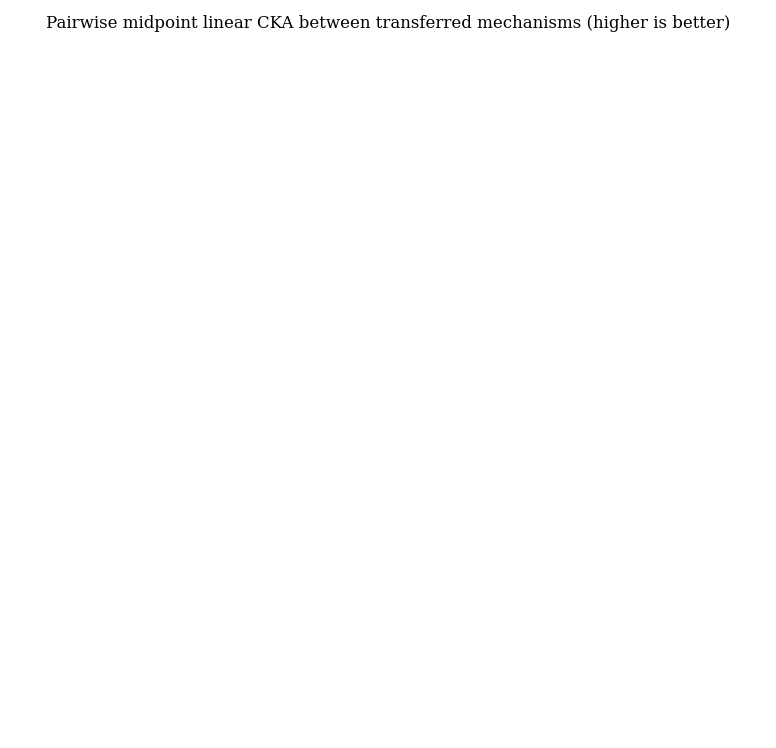
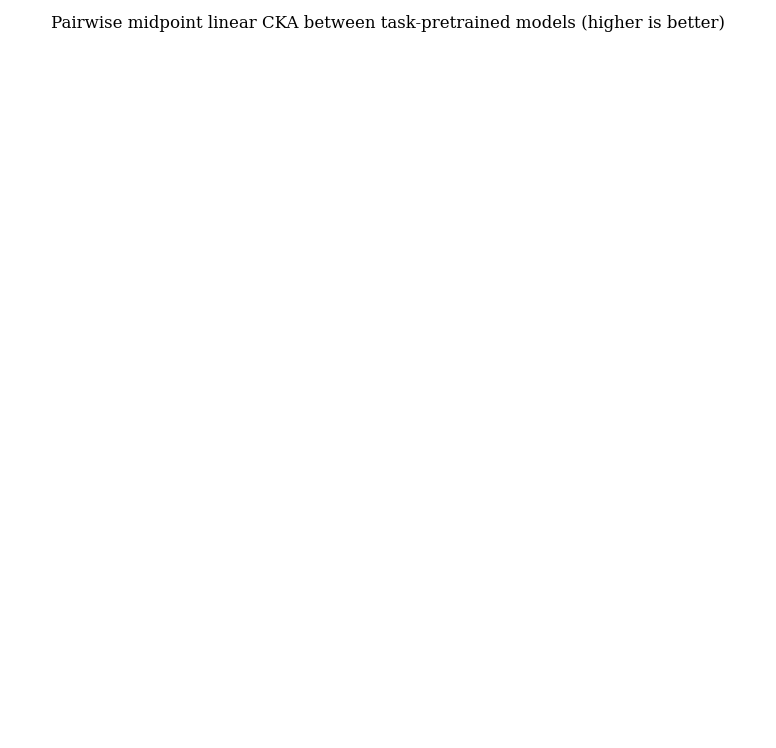
Clarify task-study metric claims and CKA wording

Changed region(s): [[0.1856, 0.0, 0.9278, 0.0615], [0.0619, 0.0, 0.1546, 0.0615]]

diff --git a/src/pptrain/replication/reporting.py b/src/pptrain/replication/reporting.py
@@ -167,14 +167,14 @@ def save_replication_reports(payload: dict[str, Any], output_dir: str | Path) ->
         output_path=output / "pairwise_logit_divergence.png",
         value_format="{value:.2f}",
         scale=1.0e4,
-        top_label="Pairwise Jensen-Shannon divergence between transferred mechanisms (x1e4 nats, lower is better)",
+        top_label="Pairwise Jensen-Shannon divergence between task-pretrained models (x1e4 nats, lower is better)",
     )
     pairwise_activation_plot_path = _save_cross_mechanism_matrix_grid(
         payload,
         cross_key="pairwise_activation_cka_by_variant",
         output_path=output / "pairwise_activation_cka.png",
         value_format="{value:.2f}",
-        top_label="Pairwise midpoint linear CKA between transferred mechanisms (higher is better)",
+        top_label="Pairwise midpoint linear CKA between task-pretrained models (higher is better)",
         shared_scale=False,
     )
     summary_plot_path = _save_effect_summary_plot(payload, output / "effect_summary.png")
@@ -337,7 +337,7 @@ def _build_report_markdown(
             "",
             f"![Activation CKA to baseline]({activation_cka_plot_path.name})",
             "",
-            "This plot compares each task's task-pretrained model against its own compute-matched natural baseline using midpoint linear CKA on held-out downstream tokens. Higher values mean the internal representation geometry is more similar despite different parameter initializations.",
+            "This plot compares each task's task-pretrained model against its own compute-matched natural baseline using midpoint linear CKA on held-out downstream tokens. Higher values mean the internal representation geometry is more similar despite different parameter initializations. This is a descriptive representation-level diagnostic rather than a direct measure of successful transfer.",
             "",
             "### Activation Effective Rank",
             "",

diff --git a/docs/archive/proxy-study-2026-04-10/summary.md b/docs/archive/proxy-study-2026-04-10/summary.md
@@ -30,7 +30,7 @@ The loss overlays show that this conclusion is not driven by a single unstable s
 
 ![Activation CKA to baseline](activation_cka_to_baseline.png)
 
-The representational diagnostics do not reverse the main conclusion. Midlayer CKA relative to the compute-matched natural baseline varies across tasks, but even where the task-pretrained condition produces representations that are not grossly dissimilar, this does not translate into a downstream advantage. The partial result is therefore not just a matter of one scalar loss metric; the broader diagnostic picture also fails to reveal a compensating positive signal.
+The representational diagnostics are best read as descriptive rather than dispositive. Midlayer CKA relative to the compute-matched natural baseline varies across tasks, but this quantity is orthogonal to the main transfer question addressed here. In the completed subset, the more relevant point is that the representational picture does not reveal a simple failure mode such as obvious collapse or identical behavior across all tasks, even though the downstream comparison remains negative.
 
 ## Interpretation and Limitations
 

diff --git a/docs/archive/proxy-study-2026-04-10/replication_report.md b/docs/archive/proxy-study-2026-04-10/replication_report.md
@@ -55,7 +55,7 @@ LIME and Summarization use different downstream text families from the other tas
 
 ![Activation CKA to baseline](activation_cka_to_baseline.png)
 
-This plot compares each task's task-pretrained model against its own compute-matched natural baseline using midpoint linear CKA on held-out downstream tokens. Higher values mean the internal representation geometry is more similar despite different parameter initializations.
+This plot compares each task's task-pretrained model against its own compute-matched natural baseline using midpoint linear CKA on held-out downstream tokens. Higher values mean the internal representation geometry is more similar despite different parameter initializations. This is a descriptive representation-level diagnostic rather than a direct measure of successful transfer.
 
 ### Activation Effective Rank
 
